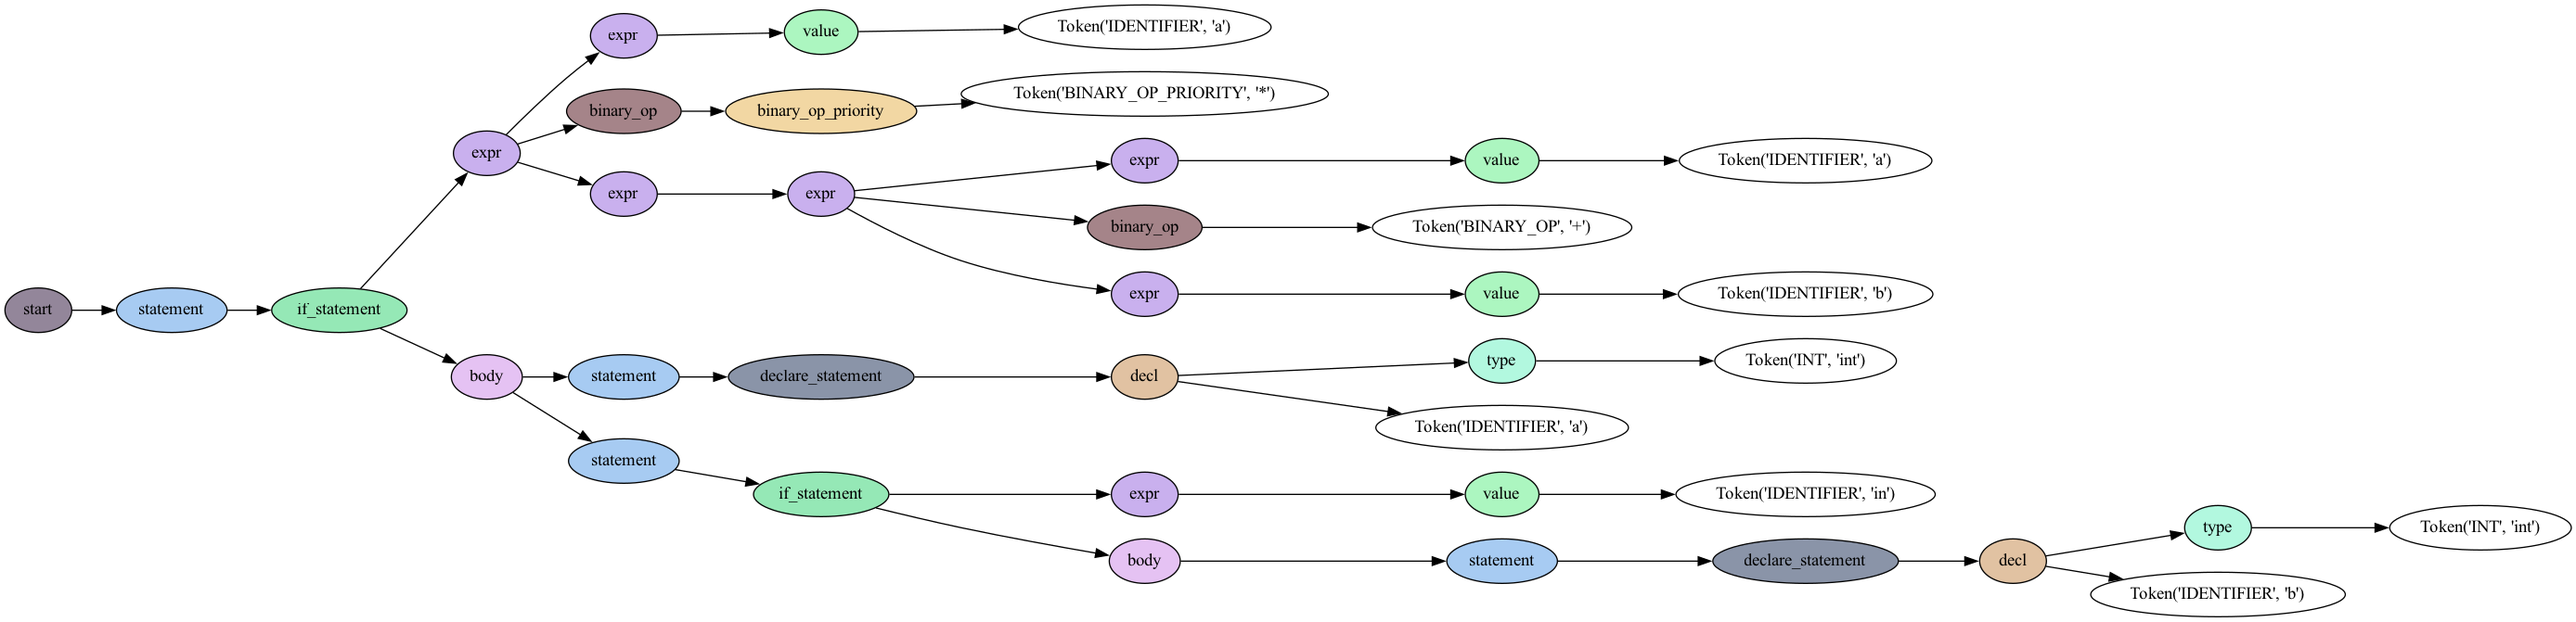
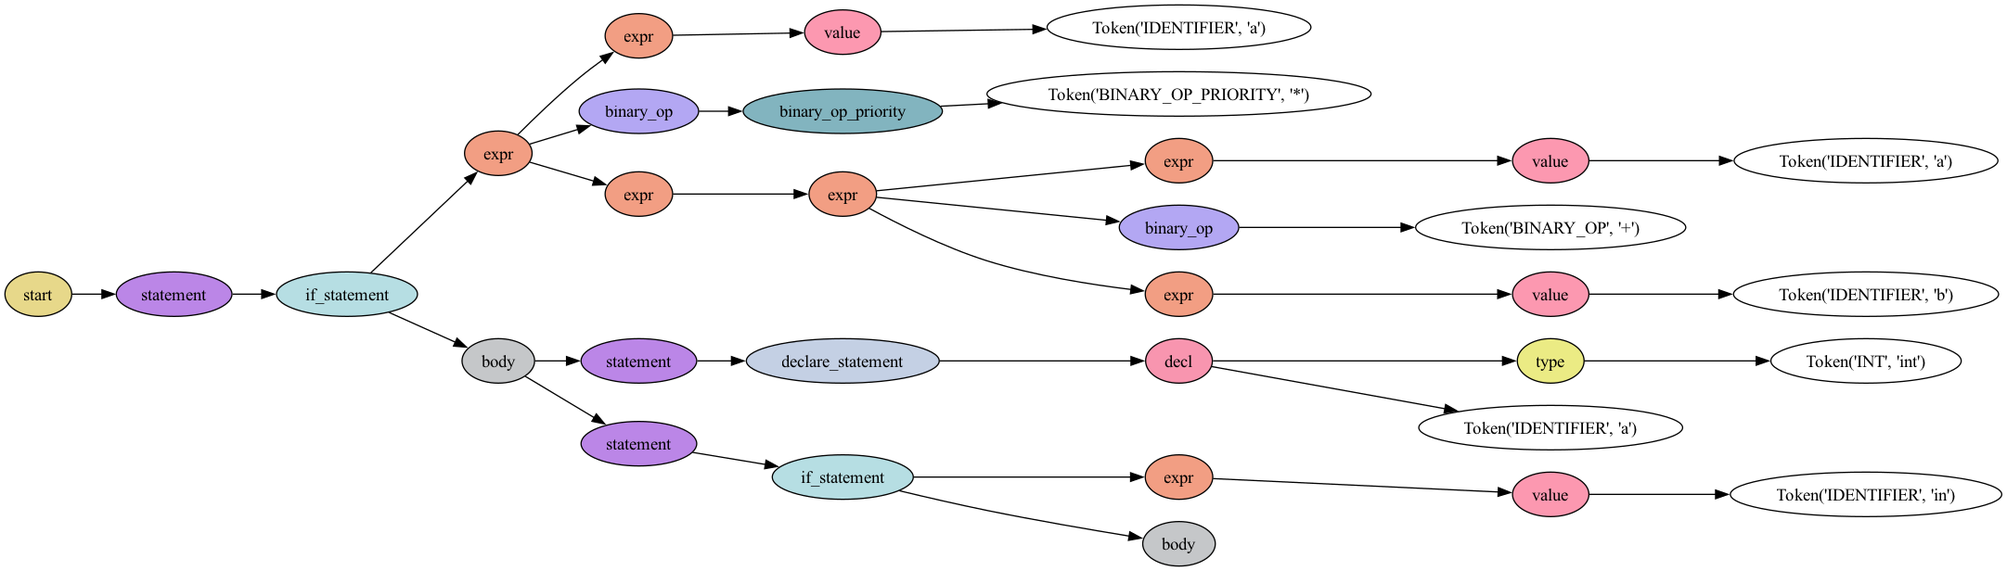
if vazio

Changed region(s): [[0.0, 0.0, 1.0, 1.0], [0.6815, 0.6786, 0.7124, 0.7094]]

diff --git a/output.html b/output.html
@@ -1,1 +1,1 @@
-<html><body><h1>Section 1</h1><h2>listaRedeclaracoes</h2><table></table><h2>listaNaoRedeclaracoes</h2><table><tr><td>a-Global</td></tr><tr><td>b-Global</td></tr><tr><td>in-Global</td></tr></table><h2>listaNaoInicializadas</h2><table><tr><td>a-Global</td></tr><tr><td>b-Global</td></tr><tr><td>in-Global</td></tr></table><h2>listaNaoMencionadas</h2><table><tr><td>a-Global</td></tr><tr><td>b-Global</td></tr></table><h1>Section 2</h1><table><tr><th>int</th><td>a-Global</td><td>b-Global</td></tr><tr><th>None</th><td>in-Global</td></tr></table><h1>Section 3</h1><table><tr><td>atribuicoes</td><td>0</td></tr><tr><td>leitura</td><td>4</td></tr><tr><td>condicionais</td><td>2</td></tr><tr><td>ciclicas</td><td>0</td></tr></table><h1>Section 4</h1><p>1</p><h1>Section 5</h1><p>0</p></body></html>
+<html><body><h1>Section 1</h1><h2>listaRedeclaracoes</h2><table></table><h2>listaNaoRedeclaracoes</h2><table><tr><td>a-Global</td></tr><tr><td>b-Global</td></tr><tr><td>in-Global</td></tr></table><h2>listaNaoInicializadas</h2><table><tr><td>a-Global</td></tr><tr><td>b-Global</td></tr><tr><td>in-Global</td></tr></table><h2>listaNaoMencionadas</h2><table><tr><td>a-Global</td></tr></table><h1>Section 2</h1><table><tr><th>int</th><td>a-Global</td></tr><tr><th>None</th><td>b-Global</td><td>in-Global</td></tr></table><h1>Section 3</h1><table><tr><td>atribuicoes</td><td>0</td></tr><tr><td>leitura</td><td>4</td></tr><tr><td>condicionais</td><td>2</td></tr><tr><td>ciclicas</td><td>0</td></tr></table><h1>Section 4</h1><p>1</p><h1>Section 5</h1><p>0</p></body></html>

diff --git a/tp3.py b/tp3.py
@@ -4,13 +4,29 @@ from lark.visitors import Interpreter
 import html
 import re
 
-def inicio_fim(string):
-    first_quote_index = string.find('"')
-    last_quote_index = string.rfind('"')
+# def inicio_fim(string):
+#     first_quote_index = string.find('"')
+#     last_quote_index = string.rfind('"')
     
-    if first_quote_index != -1 and last_quote_index != -1:
-        first_quote = string[first_quote_index + 1: string.find('"', first_quote_index + 1)]
-        last_quote = string[string.rfind('"', 0, last_quote_index) + 1: last_quote_index]
+#     if first_quote_index != -1 and last_quote_index != -1:
+#         first_quote = string[first_quote_index + 1: string.find('"', first_quote_index + 1)]
+#         last_quote = string[string.rfind('"', 0, last_quote_index) + 1: last_quote_index]
+#         return first_quote.strip(), last_quote.strip()
+#     else:
+#         return None, None
+
+import re
+
+def inicio_fim(string):
+    quote_indices = [i for i, char in enumerate(string) if char == '"']
+    
+    if len(quote_indices) >= 2:
+        first_quote = string[quote_indices[0] + 1: quote_indices[1]]
+        last_quote = string[quote_indices[-2] + 1: quote_indices[-1]]
+        
+        if last_quote.strip() == "" and len(quote_indices) >= 4:
+            last_quote = string[quote_indices[-4] + 1: quote_indices[-3]]
+            
         return first_quote.strip(), last_quote.strip()
     else:
         return None, None
@@ -98,6 +114,11 @@ class MyInterpreter(Interpreter):
         arrayDasStrings = self.arrayString[::-1]
         stringGrafoFinal = ""
         if arrayDasStrings:
+            print("Array das strings", arrayDasStrings)
+            if re.search(r'"if .*" -> ""', arrayDasStrings[-1]):
+                arrayDasStrings[-1] = re.sub(r'\n\s*"if .*" -> ""\n\s*', '\n', arrayDasStrings[-1])
+            print("Array das strings", arrayDasStrings)
+            
             stringGrafoFinal = "\n".join(arrayDasStrings)
 
         primeiro, ultimo = inicio_fim(stringGrafoFinal)
@@ -202,10 +223,11 @@ class MyInterpreter(Interpreter):
         self.boolIF = False
         self.estrutura.pop()
 
-
+        print("EXP", exp)   
+        conteudo =  exp[0] if exp else ""
         stringG = f"""
         "if {extract_values_to_string(n)}" [shape=diamond];
-        "if {extract_values_to_string(n)}" -> "{extract_values_to_string(exp[0])}"
+        "if {extract_values_to_string(n)}" -> "{extract_values_to_string(conteudo)}"
         """
         if len(exp) >1:
             pattern = r'"([^"]*)"'
@@ -540,7 +562,7 @@ frase0 = '''
 if ( a * (a + b) ) {     
     int a; 
     if (in) {
-       int b;
+
         }
 }
 
